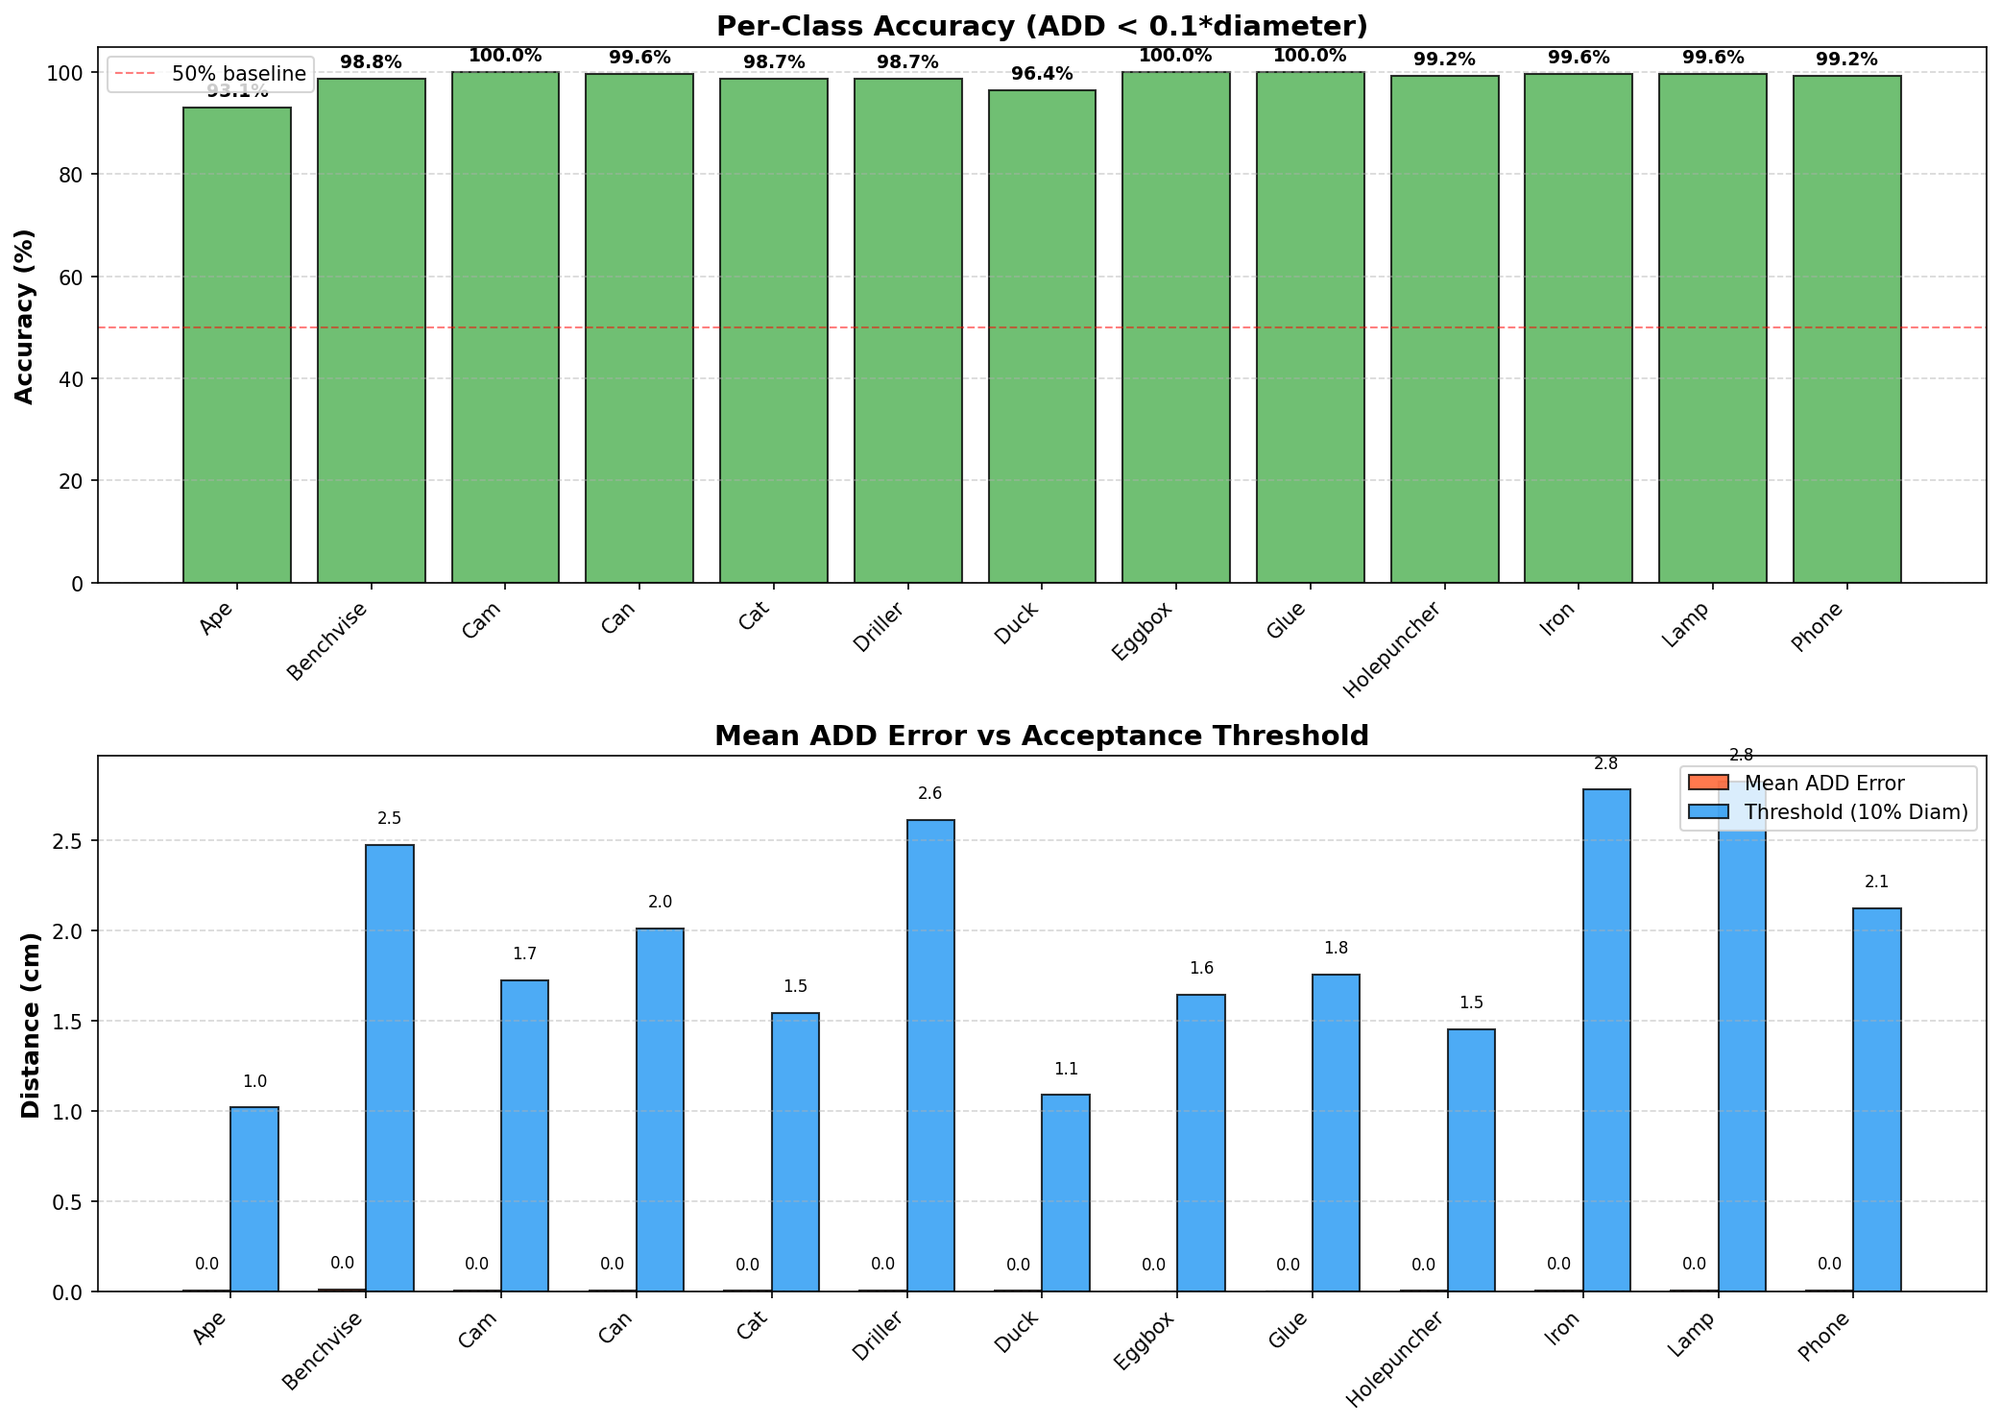
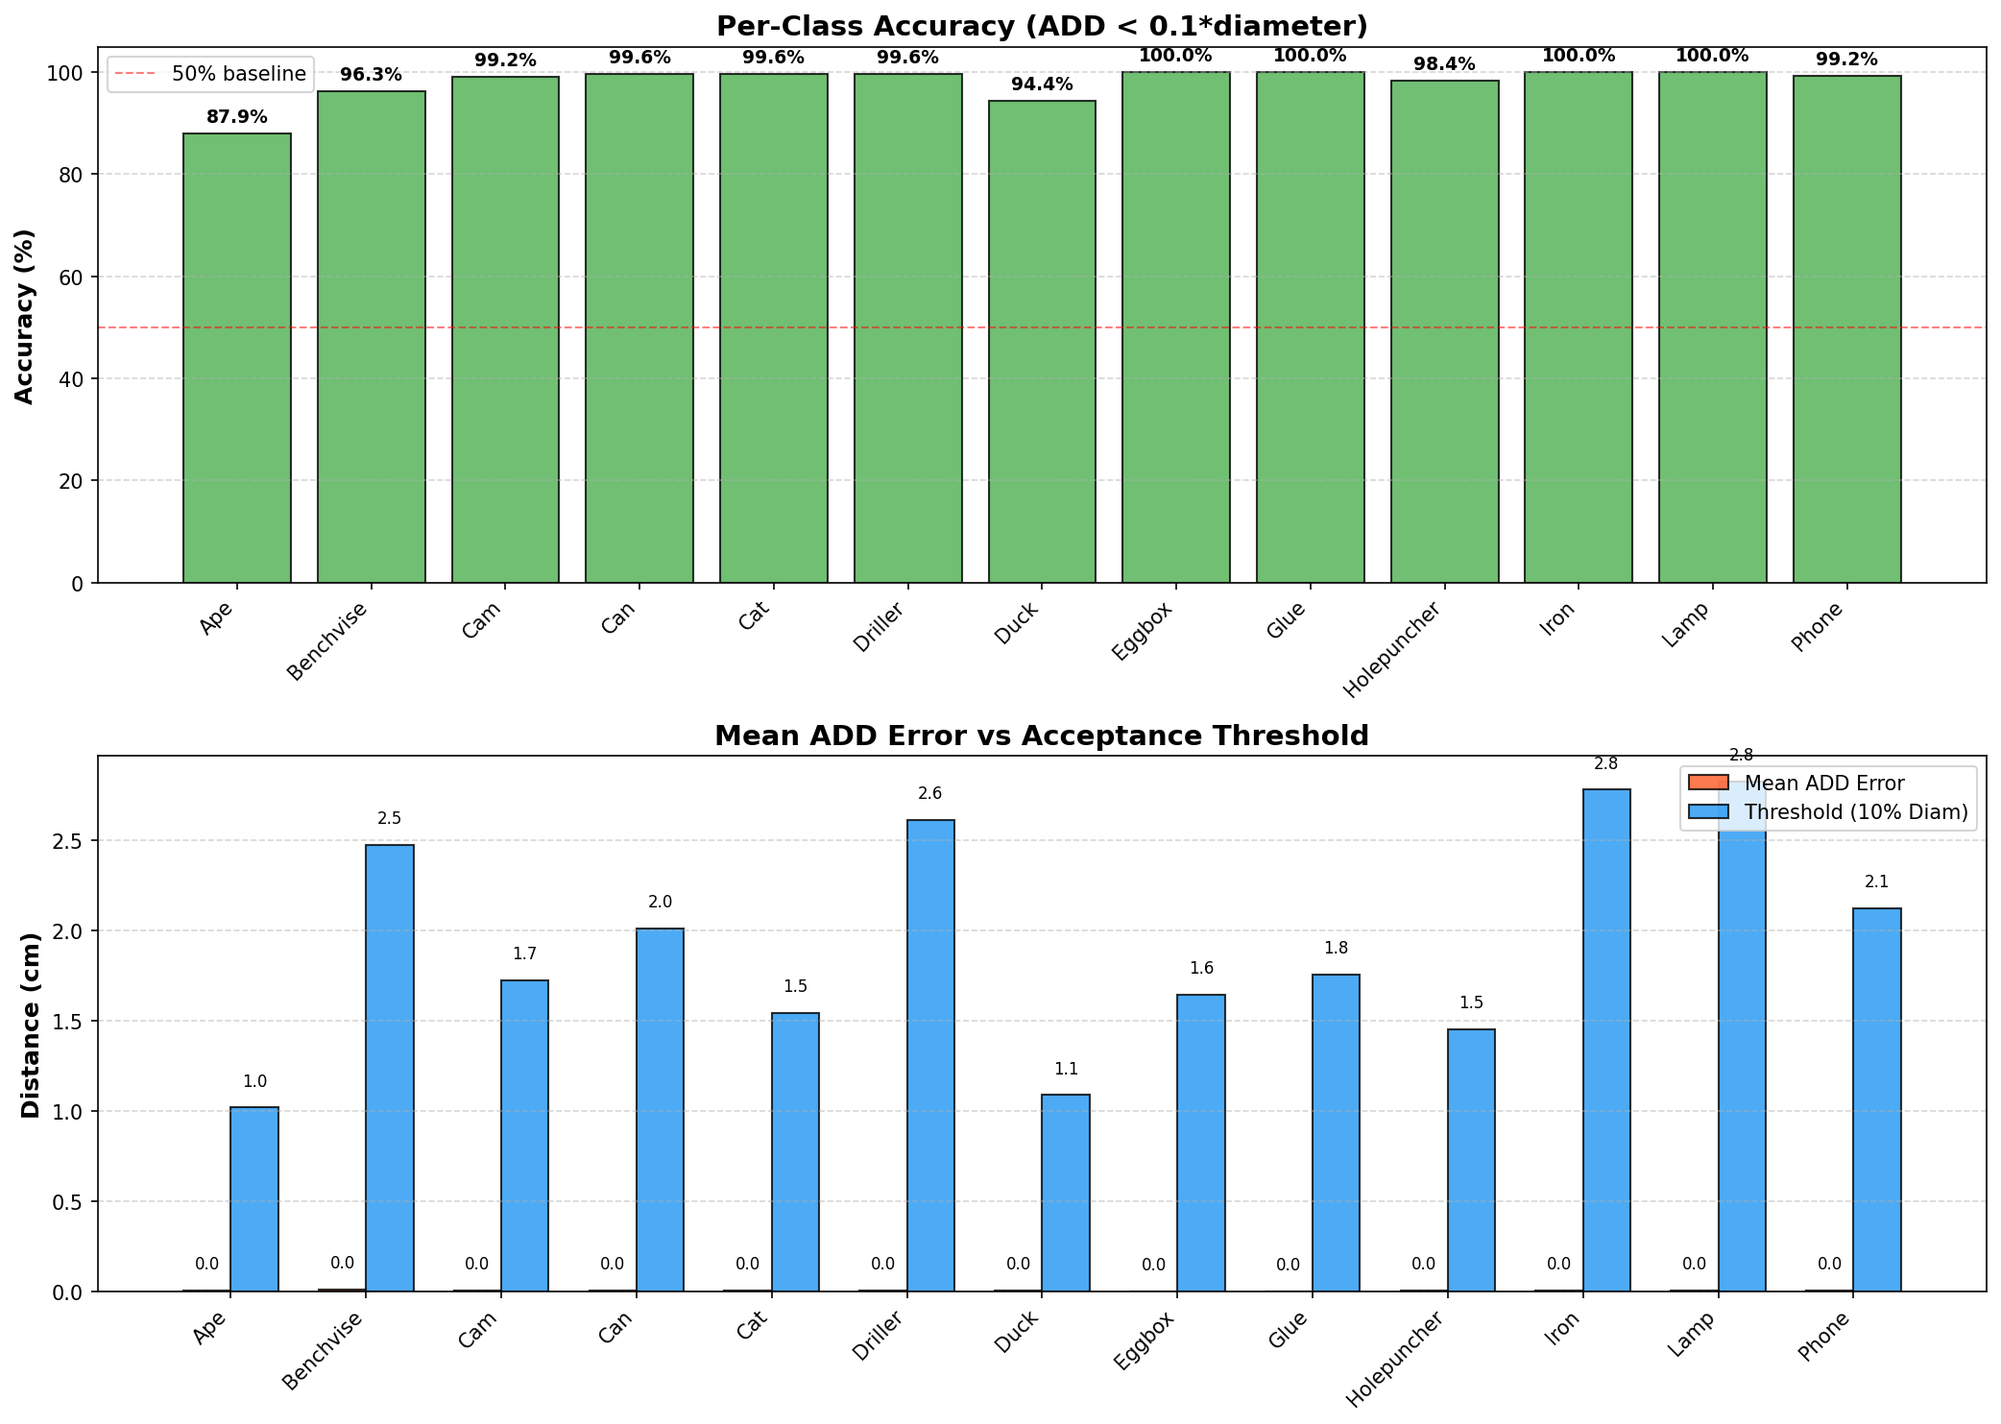
variants with refinement

diff --git a/models/DFMasked_DualAtt_NetVar_Weighted_WRefiner.py b/models/DFMasked_DualAtt_NetVar_Weighted_WRefiner.py
@@ -1,0 +1,158 @@
+import torch
+import torch.nn as nn
+import torch.nn.functional as F
+import torchvision.models as models 
+from utils.Posenet_utils.attention import GeometricAttention 
+from Refinement_Section.PoseRefinement import PoseRefinement
+
+class DenseFusion_Masked_DualAtt_NetVarWRef(nn.Module):
+    def __init__(self, pretrained=True, temperature=2.0):
+        super().__init__()
+        
+        self.temperature = temperature 
+        self.eps = 1e-8                
+
+        self.rgb_backbone = models.resnet18(weights='DEFAULT' if pretrained else None)
+        self.depth_backbone = models.resnet18(weights='DEFAULT' if pretrained else None)
+        
+        self.rgb_extractor = nn.Sequential(*list(self.rgb_backbone.children())[:-2])
+        self.depth_extractor = nn.Sequential(*list(self.depth_backbone.children())[:-2])
+        
+        self.attention_block = GeometricAttention(in_channels=512)
+        self.refinement = PoseRefinement(feat_dim=512)
+
+        self.feat_dropout = nn.Dropout2d(p=0.3)
+        self.head_dropout = nn.Dropout2d(p=0.15)
+        
+        #FUSION with RESIDUAL
+        # Input: 1024 -> Project to 512 -> Residual Block
+        self.fusion_entry = nn.Sequential(
+            nn.Conv2d(1024, 512, kernel_size=3, padding=1),
+            nn.BatchNorm2d(512),
+            nn.ReLU()
+        )
+        
+        # Residual Block interno alla fusione
+        self.fusion_res = nn.Sequential(
+            nn.Conv2d(512, 512, kernel_size=3, padding=1),
+            nn.BatchNorm2d(512),
+            nn.ReLU(),
+            self.head_dropout,
+            nn.Conv2d(512, 512, kernel_size=3, padding=1),
+            nn.BatchNorm2d(512)
+        )
+        
+        # Pixel wise heads
+        # Rot Head
+        self.rot_head = nn.Sequential(
+            nn.Conv2d(1024, 256, 1), 
+            nn.ReLU(),
+            nn.Conv2d(256, 4, 1)    
+        )
+        
+        # Trans Head
+        self.trans_head = nn.Sequential(
+            nn.Conv2d(520, 256, 1), 
+            nn.ReLU(),
+            nn.Conv2d(256, 3, 1)    
+        )
+        
+        # Confidence Head (Output Logits per Softmax)
+        self.conf_head = nn.Sequential(
+            nn.Conv2d(1032, 128, 1),
+            nn.ReLU(),
+            nn.Conv2d(128, 1, 1) 
+        )
+    
+    def _forward_fusion(self, rgb, depth, mask=None, return_debug=False):
+        """Helper function condivisa tra forward e refine"""
+        # MASKING
+        if mask is not None:
+            rgb = rgb * mask
+            depth = depth * mask
+        
+        rgb_feat = self.rgb_extractor(rgb)       
+        depth_3ch = torch.cat([depth, depth, depth], dim=1)
+        depth_feat = self.depth_extractor(depth_3ch) 
+
+        rgb_feat = self.feat_dropout(rgb_feat)
+        depth_feat = self.feat_dropout(depth_feat)
+        
+        att_map = self.attention_block(depth_feat) 
+
+        # RESIDUAL ATTENTION: (1 + att) per non perdere segnale
+        rgb_enhanced = rgb_feat * (1 + att_map)  
+        depth_enhanced = depth_feat * (1 + att_map) #[B, 512, 7, 7]
+        
+        # FUSION + RESIDUAL
+        combined = torch.cat([rgb_enhanced, depth_enhanced], dim=1)
+        x = self.fusion_entry(combined)
+        # Residual connection: x + Block(x)
+        x_res = self.fusion_res(x)
+        fused_feat = F.relu(x + x_res) # Residual add & final ReLU
+        
+        debug_info = {}
+        if return_debug:
+            debug_info['att_max_rgb']  = att_map.max().item()
+            debug_info['att_min_rgb']  = att_map.min().item()
+            debug_info['att_std_rgb']  = att_map.std().item()
+        
+        return fused_feat, rgb_enhanced, depth_enhanced, debug_info
+
+    def _weighted_pooling(self, fused_feat, batch_size, rgb_enhanced, depth_enhanced, bb_info,cam_params,return_debug=False, debug_info=None):
+        """Logica di pooling intelligente condivisa"""
+
+        rot_input = torch.cat([fused_feat, rgb_enhanced], dim=1)
+        pred_rot_map = self.rot_head(rot_input)     # [B, 4, 7, 7]
+
+        bb_spatial = bb_info.unsqueeze(-1).unsqueeze(-1).expand(-1, -1, 7, 7)      # [B, 4, 7, 7]
+        cam_spatial = cam_params.unsqueeze(-1).unsqueeze(-1).expand(-1, -1, 7, 7)  # [B, 4, 7, 7]
+        trans_input = torch.cat([fused_feat, bb_spatial, cam_spatial], dim=1) 
+        pred_trans_map = self.trans_head(trans_input) # [B, 3, 7, 7]
+
+        conf_input = torch.cat([fused_feat, rgb_enhanced, bb_spatial, cam_spatial], dim=1) 
+        conf_logits = self.conf_head(conf_input)   # [B, 1, 7, 7] (Logits)
+        
+        # Flatten Spatial Dimensions
+        pred_rot_map = pred_rot_map.view(batch_size, 4, -1)   # [B, 4, 49]
+        pred_trans_map = pred_trans_map.view(batch_size, 3, -1) # [B, 3, 49] Ha senso ancora questa . view 
+        conf_logits = conf_logits.view(batch_size, 1, -1)     # [B, 1, 49]
+        
+        # Normalize Quaternions (with Epsilon)
+        pred_rot_map = F.normalize(pred_rot_map + self.eps, p=2, dim=1)
+        
+        # --- WEIGHT CALCULATION ---
+        # Softmax with Temperature onlogits
+        weights = F.softmax(conf_logits / self.temperature, dim=2) # [B, 1, 49]
+        
+        # Weighted Average
+        pred_rot_global = torch.sum(pred_rot_map * weights, dim=2)   # [B, 4]
+        pred_trans_global = torch.sum(pred_trans_map * weights, dim=2) # [B, 3]
+        
+        # Final Normalize
+        pred_rot_global = F.normalize(pred_rot_global + self.eps, p=2, dim=1)
+        
+        # Global Feature Vector (Weighted)
+        fused_flat = fused_feat.view(batch_size, 512, -1)
+        global_feat_weighted = torch.sum(fused_flat * weights, dim=2) # [B, 512]
+
+        if return_debug and debug_info is not None:
+            debug_info['conf_max'] = weights.max().item()
+            debug_info['conf_mean'] = weights.mean().item()
+            debug_info['conf_std'] = weights.std().item()
+
+        return pred_rot_global, pred_trans_global, global_feat_weighted, debug_info
+
+    def forward(self, rgb, depth, bb_info, cam_params, num_refine=2,mask=None, return_debug=False):
+        bs = rgb.size(0)
+        fused_feat, rgb_enhanced, depth_enhanced, dbg = self._forward_fusion(rgb, depth, mask, return_debug)
+        pred_r, pred_t, global_feat_weighted, dbg_final = self._weighted_pooling(fused_feat, bs, rgb_enhanced, depth_enhanced,  bb_info, cam_params, return_debug, dbg)
+
+        # Iterative refinement
+        for _ in range(num_refine):
+            pred_rot, pred_trans = self.refinement(global_feat_weighted, pred_r, pred_t)
+
+        if return_debug:
+            return pred_r, pred_t, dbg_final
+        return pred_r, pred_t
+

diff --git a/models/DFMasked_DualAtt_NetVarGlobal_WRefiner.py b/models/DFMasked_DualAtt_NetVarGlobal_WRefiner.py
@@ -1,0 +1,135 @@
+import torch
+import torch.nn as nn
+import torch.nn.functional as F
+import torchvision.models as models 
+from utils.Posenet_utils.attention import GeometricAttention 
+
+class DenseFusion_Masked_DualAtt_NetVarGlobal_WRef(nn.Module):
+    def __init__(self, pretrained=True):
+        super().__init__()
+        
+        self.eps = 1e-8                
+
+        self.rgb_backbone = models.resnet18(weights='DEFAULT' if pretrained else None)
+        self.depth_backbone = models.resnet18(weights='DEFAULT' if pretrained else None)
+        
+        self.rgb_extractor = nn.Sequential(*list(self.rgb_backbone.children())[:-2])
+        self.depth_extractor = nn.Sequential(*list(self.depth_backbone.children())[:-2])
+        
+        self.attention_block = GeometricAttention(in_channels=512)
+
+        self.feat_dropout = nn.Dropout2d(p=0.3)
+        self.head_dropout = nn.Dropout2d(p=0.15)
+        
+        #FUSION with RESIDUAL
+        # Input: 1024 -> Project to 512 -> Residual Block
+        self.fusion_entry = nn.Sequential(
+            nn.Conv2d(1024, 512, kernel_size=3, padding=1),
+            nn.BatchNorm2d(512),
+            nn.ReLU()
+        )
+        
+        # Residual Block interno alla fusione
+        self.fusion_res = nn.Sequential(
+            nn.Conv2d(512, 512, kernel_size=3, padding=1),
+            nn.BatchNorm2d(512),
+            nn.ReLU(),
+            self.head_dropout,
+            nn.Conv2d(512, 512, kernel_size=3, padding=1),
+            nn.BatchNorm2d(512)
+        )
+        
+        # Pixel wise heads
+        # Rot Head
+        self.rot_head = nn.Sequential(
+            nn.Conv2d(1024, 256, 1), 
+            nn.ReLU(),
+            nn.Conv2d(256, 4, 1)    
+        )
+        
+        # Trans Head
+        self.trans_head = nn.Sequential(
+            nn.Conv2d(520, 256, 1), 
+            nn.ReLU(),
+            nn.Conv2d(256, 3, 1)    
+        )
+
+    
+    def _forward_fusion(self, rgb, depth, mask=None, return_debug=False):
+        """Helper function condivisa tra forward e refine"""
+        # MASKING
+        if mask is not None:
+            rgb = rgb * mask
+            depth = depth * mask
+        
+        # EXTRACT
+        rgb_feat = self.rgb_extractor(rgb)       
+        depth_3ch = torch.cat([depth, depth, depth], dim=1)
+        depth_feat = self.depth_extractor(depth_3ch) 
+
+        #Adding this to avoid overfitting on hard versione
+        rgb_feat = self.feat_dropout(rgb_feat)
+        depth_feat = self.feat_dropout(depth_feat)
+        
+        # DUAL ATTENTION
+        att_map = self.attention_block(depth_feat) 
+        #att_map_depth = self.attention_block(depth_feat)
+        #att_map_rgb = self.attention_block(rgb_feat)
+
+        # RESIDUAL ATTENTION: (1 + att) per non perdere segnale
+        rgb_enhanced = rgb_feat * (1 + att_map)  
+        depth_enhanced = depth_feat * (1 + att_map) #[B, 512, 7, 7]
+        
+        # FUSION + RESIDUAL
+        combined = torch.cat([rgb_enhanced, depth_enhanced], dim=1)
+        x = self.fusion_entry(combined)
+        # Residual connection: x + Block(x)
+        x_res = self.fusion_res(x)
+        fused_feat = F.relu(x + x_res) # Residual add & final ReLU
+        
+        debug_info = {}
+        if return_debug:
+            debug_info['att_max_rgb']  = att_map.max().item()
+            debug_info['att_min_rgb']  = att_map.min().item()
+            debug_info['att_std_rgb']  = att_map.std().item()
+        
+        return fused_feat, rgb_enhanced, depth_enhanced, debug_info
+
+    def _global_pooling(self, fused_feat, batch_size, rgb_enhanced, depth_enhanced, bb_info,cam_params,return_debug=False, debug_info=None):
+
+        rot_input = torch.cat([fused_feat, rgb_enhanced], dim=1)
+        pred_rot_map = self.rot_head(rot_input)     # [B, 4, 7, 7]
+
+        bb_spatial = bb_info.unsqueeze(-1).unsqueeze(-1).expand(-1, -1, 7, 7)      # [B, 4, 7, 7]
+        cam_spatial = cam_params.unsqueeze(-1).unsqueeze(-1).expand(-1, -1, 7, 7)  # [B, 4, 7, 7]
+        trans_input = torch.cat([fused_feat, bb_spatial, cam_spatial], dim=1) 
+        pred_trans_map = self.trans_head(trans_input) # [B, 3, 7, 7]
+
+        # GLOBAL AVERAGE POOLING (invece di weighted)
+        pred_rot_global = pred_rot_map.mean(dim=[2, 3])     # [B, 4]
+        pred_trans_global = pred_trans_map.mean(dim=[2, 3]) # [B, 3]
+        
+        # Final Normalize
+        pred_rot_global = F.normalize(pred_rot_global + self.eps, p=2, dim=1)
+        
+        if return_debug and debug_info is not None:
+            debug_info['conf_max'] = weights.max().item()
+            debug_info['conf_mean'] = weights.mean().item()
+            debug_info['conf_std'] = weights.std().item()
+
+        return pred_rot_global, pred_trans_global, debug_info
+
+    def forward(self, rgb, depth,bb_info, cam_params, num_refine=2, mask=None, return_debug=False):
+        bs = rgb.size(0)
+        fused_feat, rgb_enhanced, depth_enhanced, dbg = self._forward_fusion(rgb, depth, mask, return_debug)
+        pred_r, pred_t, dbg_final = self._global_pooling(fused_feat, bs, rgb_enhanced, depth_enhanced,  bb_info, cam_params, return_debug, dbg)
+        
+        global_feat = fused_feat.mean(dim=[2, 3])
+        # Iterative refinement
+        for _ in range(num_refine):
+            pred_rot, pred_trans = self.refinement(global_feat_weighted, pred_r, pred_t)
+
+        if return_debug:
+            return pred_r, pred_t, dbg_final
+        return pred_r, pred_t
+

diff --git a/DAMF_Eval.py b/DAMF_Eval.py
@@ -6,11 +6,12 @@ from tqdm import tqdm
 from torch.utils.data import DataLoader
 from plyfile import PlyData
 from scipy.spatial.transform import Rotation as R
-
-# Import dei tuoi moduli
-from models.DAMF_DNet import DAMF_Net
+from models.DFMasked_DualAtt_NetVar_WRefiner import DenseFusion_Masked_DualAtt_NetVarWRef
 from models.DFMasked_DualAtt_Net import DenseFusion_Masked_DualAtt_Net
 from models.DFMasked_DualAtt_NetVar import DenseFusion_Masked_DualAtt_NetVar
+from models.DFMasked_DualAtt_NetVar import DenseFusion_Masked_DualAtt_NetVar
+from models.DFMasked_DualAtt_NetVarGlobal import DenseFusion_Masked_DualAtt_NetVarGlobal
+
 from utils.Posenet_utils.posenet_dataset_ALL import LineModPoseDataset
 from utils.Posenet_utils.PoseEvaluator import PoseEvaluator 
 from utils.Posenet_utils.posenet_dataset_AltMasked import LineModPoseDataset_AltMasked
@@ -105,14 +106,14 @@ class DAMF_Evaluator:
         """Carica il modello DAMF_Net con i pesi addestrati."""
         print("🧠 Loading Masked_DualAtt_Net model...")
         
-        model = DenseFusion_Masked_DualAtt_NetVar(
-            pretrained=False,  # Non servono pesi ImageNet, carichiamo i tuoi
-            temperature=self.cfg.get('temperature', 2.0)
+        model = DenseFusion_Masked_DualAtt_NetVarGlobal(
+            pretrained=False  # Non servono pesi ImageNet, carichiamo i tuoi
+            #temperature=self.cfg.get('temperature', 2.0)
         ).to(self.device)
         
         #weights_path = os.path.join(self.cfg['model_dir'], 'DenseFusion_Masked_DualAttNet_Hard1cm.pth')
-        weights_path = os.path.join(self.cfg['model_dir'], 'DenseFusion_Masked_DualAtt_NetVar_Dropout.pth')
-
+        #weights_path = os.path.join(self.cfg['model_dir'], 'DenseFusion_Masked_DualAtt_NetVar_Dropout.pth')
+        weights_path = os.path.join(self.cfg['model_dir'], 'DenseFusion_Masked_DualAtt_NetVarGlobaleasy.pth')
         """
         model = DAMF_Net(
             pretrained=False,  # Non servono pesi ImageNet, carichiamo i tuoi

diff --git a/Trainer_A100.py b/Trainer_A100.py
@@ -13,9 +13,12 @@ from utils.Posenet_utils.posenet_dataset_ALL import LineModPoseDataset
 from utils.Posenet_utils.posenet_dataset_ALLMasked import LineModPoseDatasetMasked
 from utils.Posenet_utils.posenet_dataset_AltMasked import LineModPoseDataset_AltMasked
 from utils.Posenet_utils.DenseFusion_Loss_log import DenseFusionLoss
+
 from models.DFMasked_DualAtt_Net import DenseFusion_Masked_DualAtt_Net
 from models.DFMasked_DualAtt_NetVar import DenseFusion_Masked_DualAtt_NetVar
 from models.DFMasked_DualAtt_NetVarGlobal import DenseFusion_Masked_DualAtt_NetVarGlobal
+from models.DFMasked_DualAtt_NetVar_Weighted_WRefiner import DenseFusion_Masked_DualAtt_NetVarWRef
+from models.DFMasked_DualAtt_NetVarGlobal_WRefiner import DenseFusion_Masked_DualAtt_NetVarGlobal_WRef
 
 class DAMFTurboTrainerA100:
     def __init__(self, config):
@@ -35,10 +38,19 @@ class DAMFTurboTrainerA100:
             temperature=self.cfg['temperature']
         ).to(self.device)
         """
-        print("Initializing  DenseFusion_Masked_DualAtt_NetVarGlobal (A100 Optimized)...")
+        print("Initializing  DenseFusion_Masked_DualAtt_NetVarWRefr (A100 Optimized)...")
+
+        """
         self.model = DenseFusion_Masked_DualAtt_NetVarGlobal(
             pretrained=True, 
         ).to(self.device)
+        """
+
+        self.model = DenseFusion_Masked_DualAtt_NetVarWRefr(
+            pretrained=True, 
+            temperature=self.cfg['temperature']
+        ).to(self.device)
+
 
         if 'resume_from' in self.cfg and self.cfg['resume_from'] is not None:
             print(f"🔄 FINE-TUNING MODE: Loading weights from {self.cfg['resume_from']}")

diff --git a/Refinement_Section/PoseRefinement.py b/Refinement_Section/PoseRefinement.py
@@ -1,0 +1,32 @@
+import torch
+import torch.nn as nn
+import torch.nn.functional as F
+
+class PoseRefinement(nn.Module):
+    def __init__(self, feat_dim=512):
+        super().__init__()
+        # Input: features globali + pose iniziale (4 rot + 3 trans)
+        self.refine_net = nn.Sequential(
+            nn.Linear(feat_dim + 7, 256),
+            nn.ReLU(),
+            nn.Dropout(0.2),
+            nn.Linear(256, 128),
+            nn.ReLU(),
+            nn.Linear(128, 7)  # Delta: 4 quat + 3 trans
+        )
+    
+    def forward(self, global_feat, pred_rot, pred_trans):
+        # Concatena features + pose corrente
+        pose_vec = torch.cat([pred_rot, pred_trans], dim=1)  # [B, 7]
+        x = torch.cat([global_feat, pose_vec], dim=1)  # [B, 512+7]
+        
+        # Predici delta
+        delta = self.refine_net(x)
+        delta_rot = delta[:, :4]
+        delta_trans = delta[:, 4:]
+        
+        # Applica correzione
+        new_rot = F.normalize(pred_rot + delta_rot, dim=1)
+        new_trans = pred_trans + delta_trans
+        
+        return new_rot, new_trans
